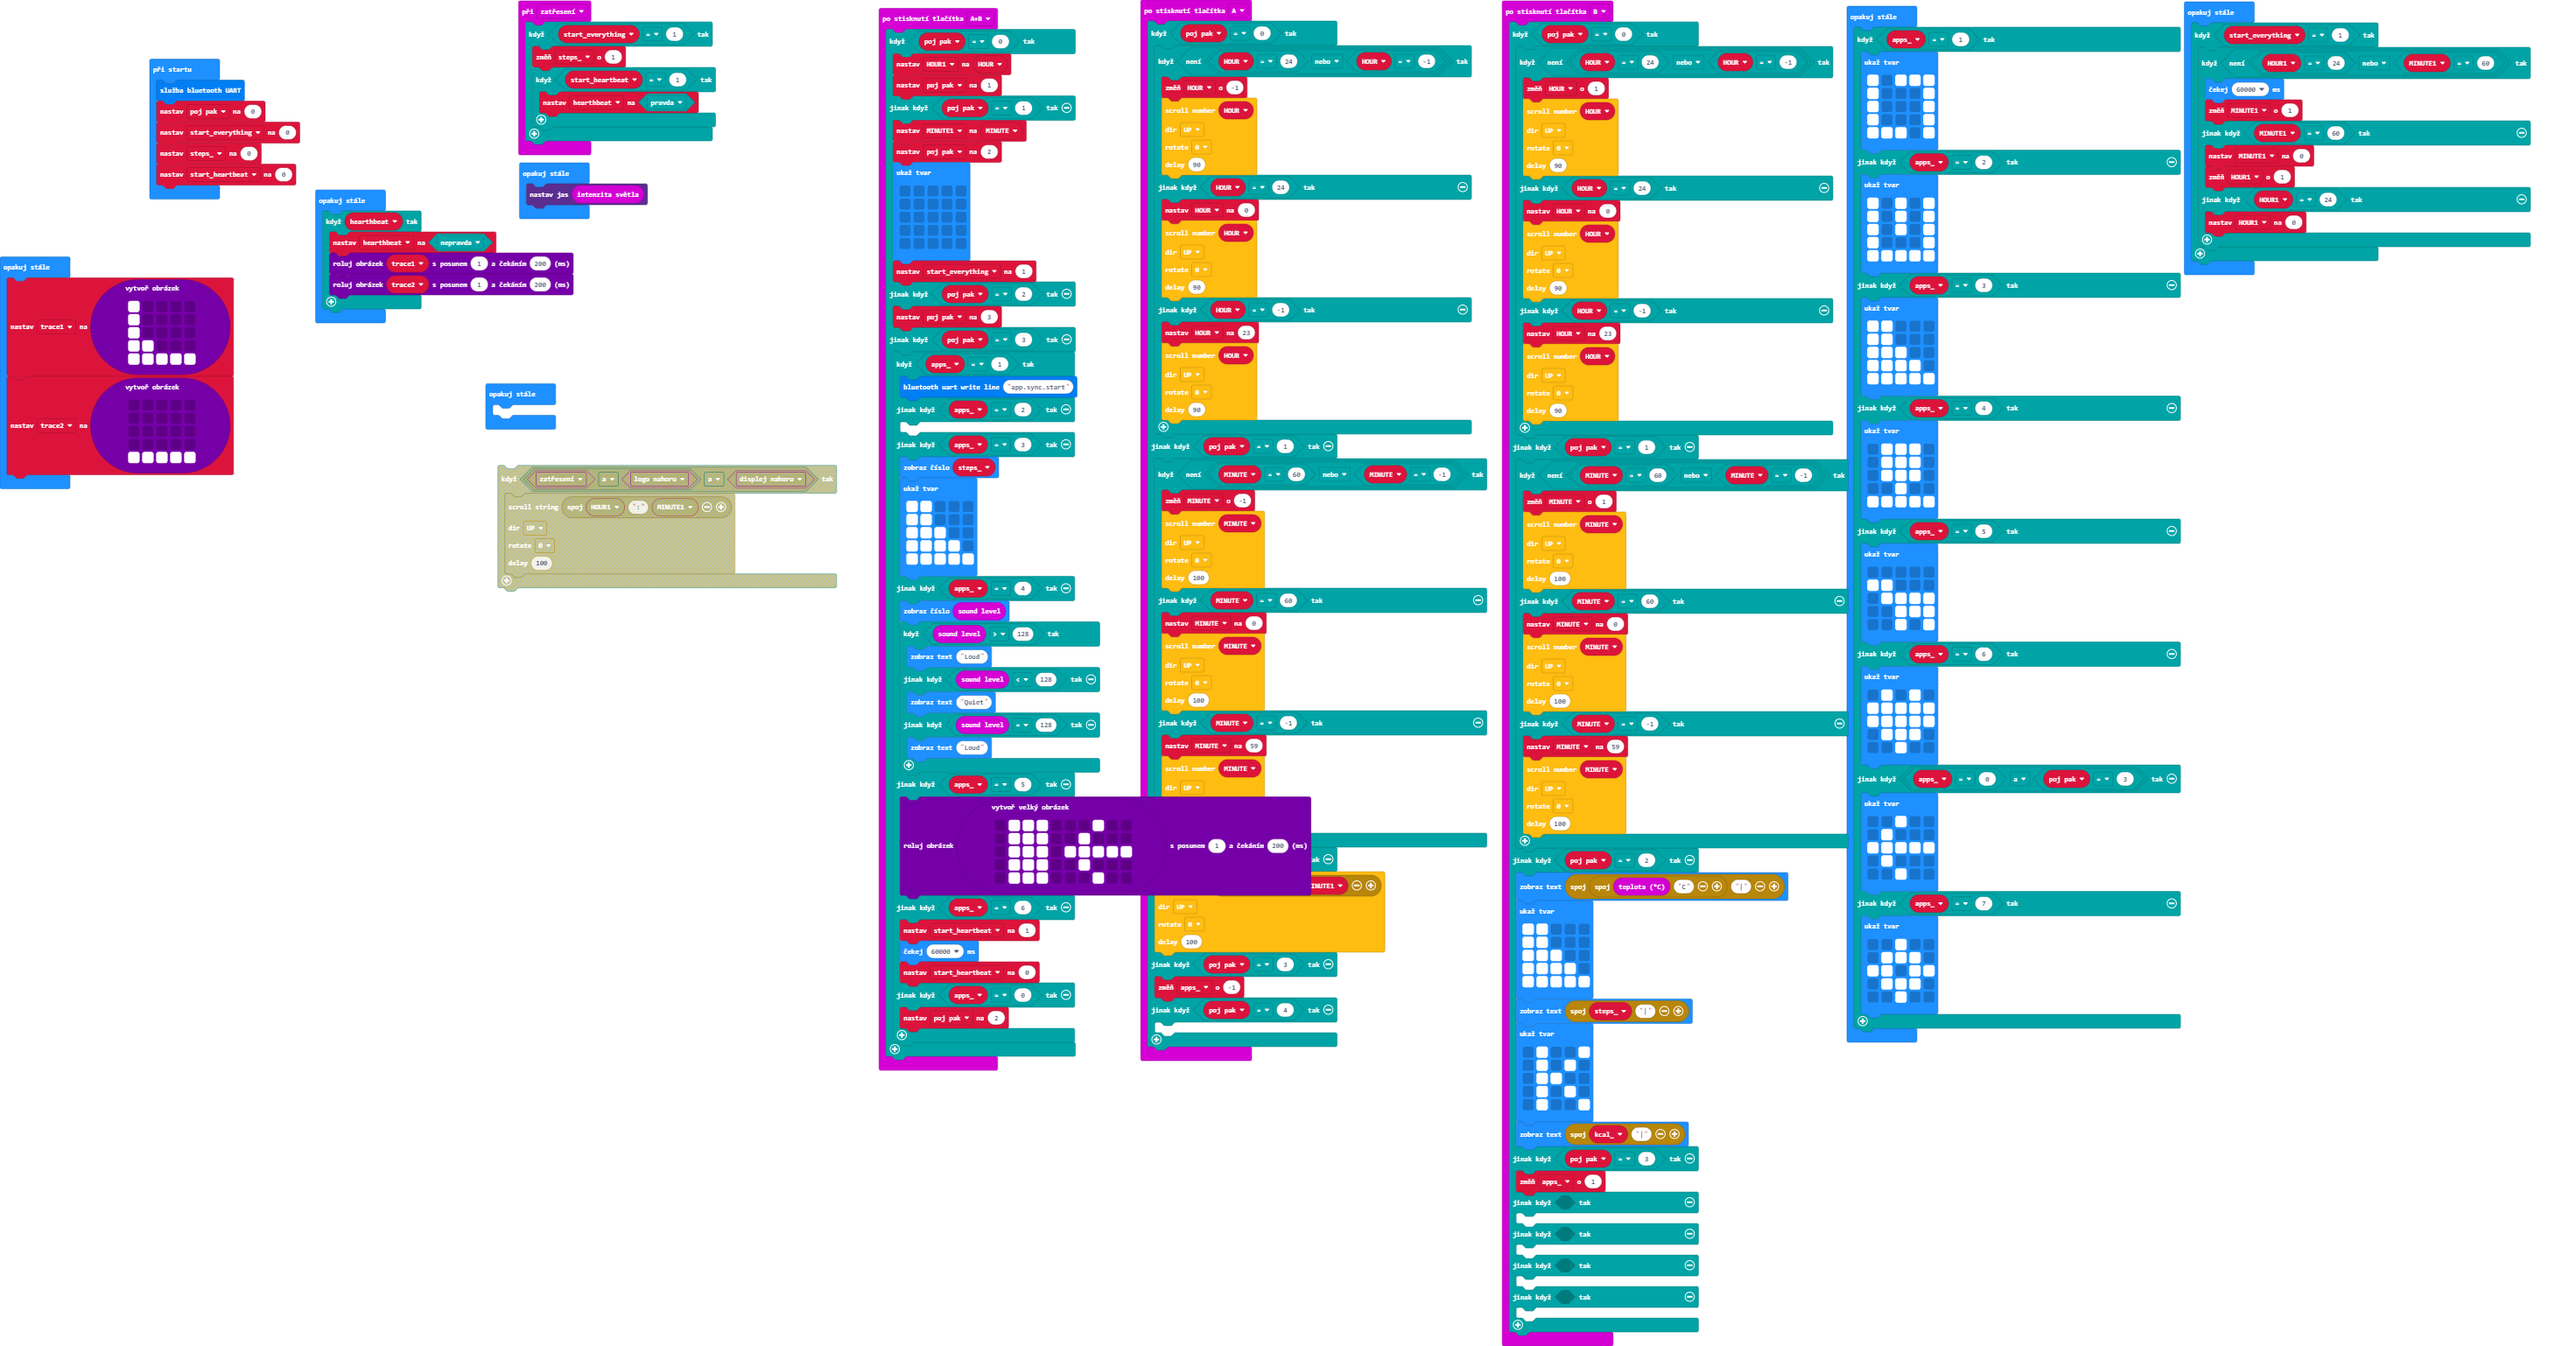
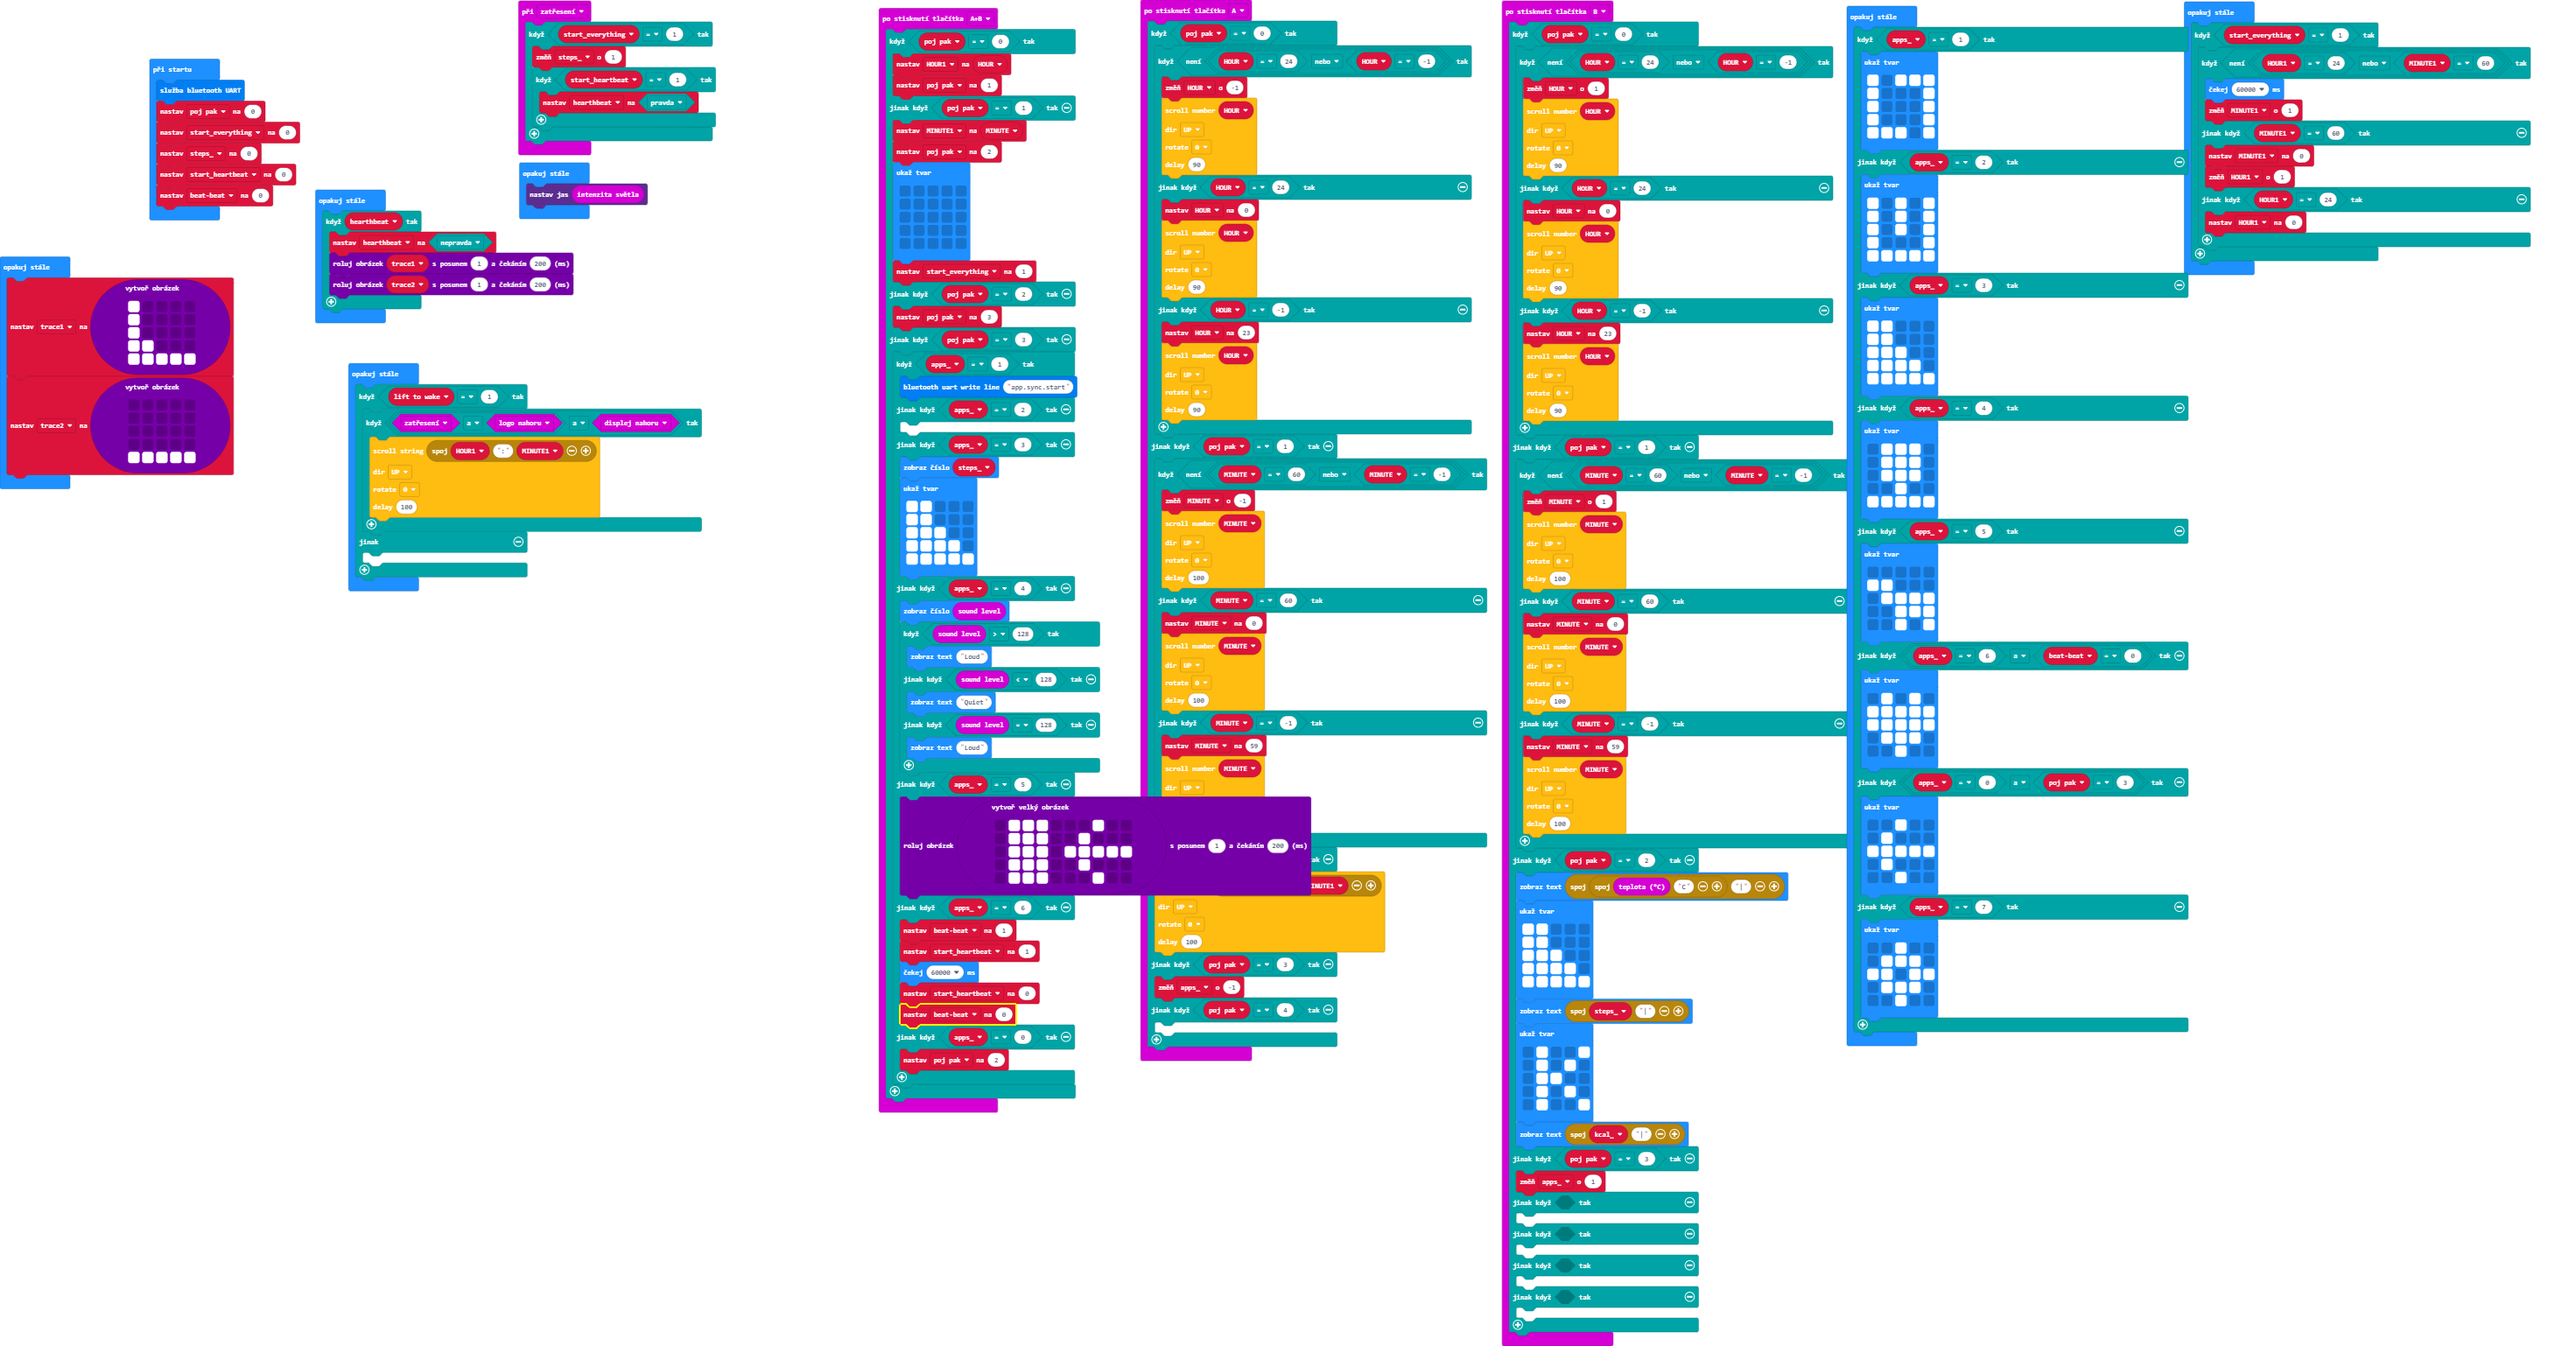
added heartbeat sensor.

diff --git a/main.ts b/main.ts
@@ -113,9 +113,11 @@ input.onButtonPressed(Button.AB, function () {
                 . # # # . . . # . .
                 `).scrollImage(1, 200)
         } else if (apps_ == 6) {
+            beatbeat = 1
             start_heartbeat = 1
             basic.pause(60000)
             start_heartbeat = 0
+            beatbeat = 0
         } else if (apps_ == 0) {
             poj_pak = 2
         }
@@ -221,6 +223,7 @@ let MINUTE1 = 0
 let HOUR1 = 0
 let MINUTE = 0
 let HOUR = 0
+let beatbeat = 0
 let start_heartbeat = 0
 let steps_ = 0
 let start_everything = 0
@@ -230,6 +233,7 @@ poj_pak = 0
 start_everything = 0
 steps_ = 0
 start_heartbeat = 0
+beatbeat = 0
 basic.forever(function () {
     if (apps_ == 1) {
         basic.showLeds(`
@@ -271,7 +275,7 @@ basic.forever(function () {
             . . # # #
             . . # . #
             `)
-    } else if (apps_ == 6) {
+    } else if (apps_ == 6 && beatbeat == 0) {
         basic.showLeds(`
             . # . # .
             # # # # #
@@ -337,5 +341,17 @@ basic.forever(function () {
         `)
 })
 basic.forever(function () {
-	
+    let lift_to_wake = 0
+    if (lift_to_wake == 1) {
+        if (input.isGesture(Gesture.Shake) && input.isGesture(Gesture.LogoUp) && input.isGesture(Gesture.ScreenUp)) {
+            ScrolText.showString(
+            "" + HOUR1 + ":" + MINUTE1,
+            SCROLL_DIR.UP,
+            SCROLL_ROTATE.SR_0,
+            100
+            )
+        }
+    } else {
+    	
+    }
 })
